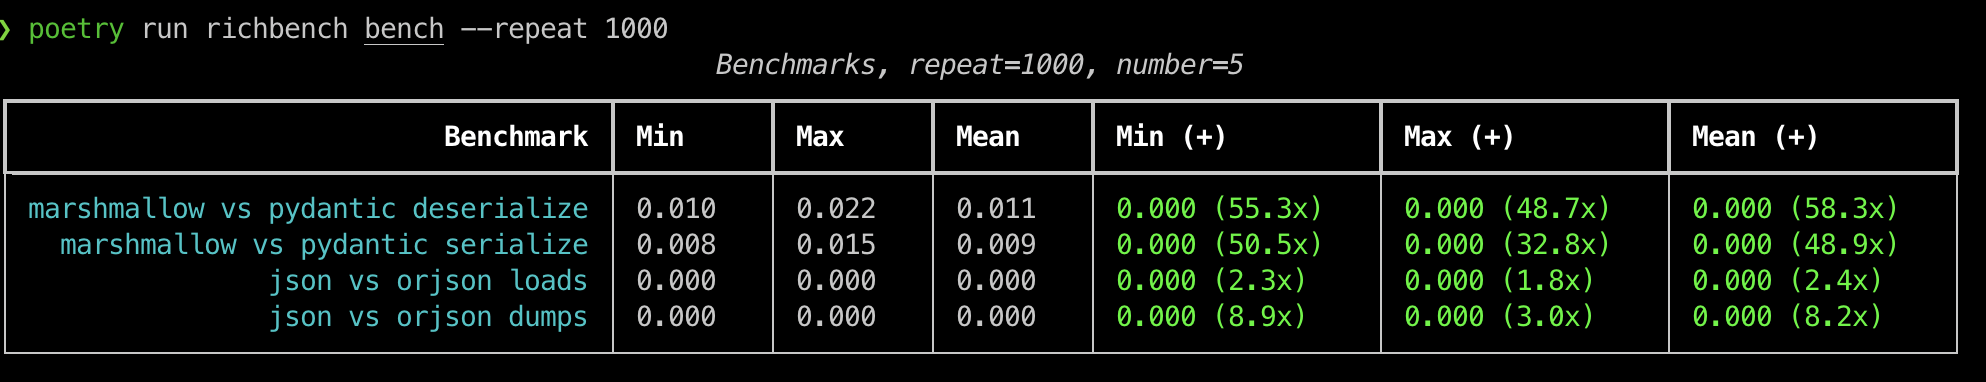
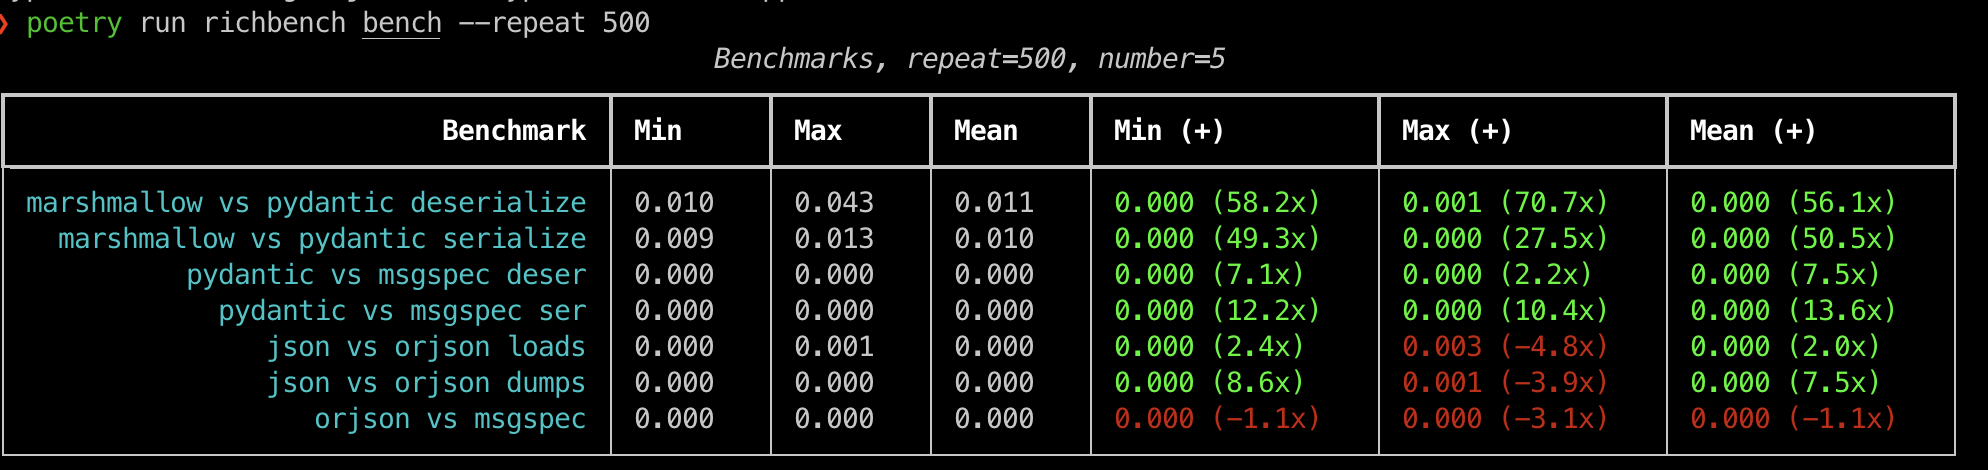
improve

Changed region(s): [[0.0, 0.0288, 0.999, 0.9791]]

diff --git a/bench/memory_msgspec.py b/bench/memory_msgspec.py
@@ -1,7 +1,6 @@
-import json, sys
+import json
 from uuid import UUID, uuid4
 
-from dataclasses import dataclass, field
 from enum import Enum
 
 import tracemalloc
@@ -33,44 +32,43 @@ def main():
 
     BASIC_USER_STRING = json.dumps(BASIC_USER)
 
-    ##############
-    # Marshmallow
-    ##############
+    ##########
+    # msgspec
+    ##########
+    import msgspec
 
-    @dataclass
-    class Info:
+    class InfoMsgspec(msgspec.Struct):
         tag: str
 
-    @dataclass
-    class OrgMarsh:
+    class OrgMsgspec(msgspec.Struct):
         id: str
-        status: Status =  field(
-            metadata={"by_value": True}
-        )
-        info: Info
+        status: Status
+        info: InfoMsgspec
         super_id: UUID
 
-    @dataclass
-    class BasicUserMarsh:
+    class BasicUserMqgspec(msgspec.Struct):
         email: str
         id: int
-        is_admin: bool = field(metadata={"data_key": "isAdmin"})
-        orgs: list[OrgMarsh]
+        is_admin: bool = msgspec.field(name="isAdmin")
+        orgs: list[OrgMsgspec]
         ids: list[int]
         names: list[str]
 
-    MARSH_ORG = OrgMarsh(
+
+    MSGSPEC_ORG = OrgMsgspec(
         id="2002",
         status=Status.LIVE,
-        info=Info(tag="tag"),
+        info=InfoMsgspec(
+            tag= "tag"
+        ),
         super_id=uuid4()
     )
         
-    MARSHMALLOW_USER = BasicUserMarsh(
+    MSGSPEC_USER = BasicUserMqgspec(
         email = "test@test.com",
         id = 100,
         is_admin = True,
-        orgs=[MARSH_ORG] * N_ELEM_ARRAY,
+        orgs=[MSGSPEC_ORG] * N_ELEM_ARRAY,
         ids=[i for i in range(N_ELEM_ARRAY)],
         names=[f"n_{i}" for i in range(N_ELEM_ARRAY)]
     )
@@ -79,8 +77,7 @@ def main():
     total_bytes = sum(stat.size for stat in snapshot.statistics('lineno'))
     # convert to kb
     total_kb = total_bytes / 1024.0
-    print(f"Marhsh cosumes {total_kb} kb")
-
+    print(f"Msgspec cosumes {total_kb} kb")
 
 if __name__ == "__main__":
     main()

diff --git a/bench/bench_all.py b/bench/bench_all.py
@@ -114,6 +114,49 @@ def deserialize_with_pyandtic_standard():
 def serialize_with_pyandtic_standard():
     return PYDANTIC_USER.model_dump_json()
 
+##########
+# msgspec
+##########
+import msgspec
+
+class InfoMsgspec(msgspec.Struct):
+    tag: str
+
+class OrgMsgspec(msgspec.Struct):
+    id: str
+    status: Status
+    info: InfoMsgspec
+    super_id: UUID
+
+class BasicUserMqgspec(msgspec.Struct):
+    email: str
+    id: int
+    is_admin: bool = msgspec.field(name="isAdmin")
+    orgs: list[OrgMsgspec]
+
+
+MSGSPEC_ORG = OrgMsgspec(
+    id="2002",
+    status=Status.LIVE,
+    info=InfoMsgspec(
+        tag= "tag"
+    ),
+    super_id=uuid4()
+)
+    
+MSGSPEC_USER = BasicUserMqgspec(
+    email = "test@test.com",
+    id = 100,
+    is_admin = True,
+    orgs=[MSGSPEC_ORG] * 10
+)
+
+def deserialize_with_msg_spec():
+    return msgspec.json.decode(BASIC_USER_STRING, type=BasicUserMqgspec)
+
+def serialize_with_msg_spec():
+    return msgspec.json.encode(MSGSPEC_USER)
+
 ###
 # json
 ##
@@ -132,8 +175,8 @@ def dump_json_orjson():
 __benchmarks__ = [
     (deserialize_with_marshmallow, deserialize_with_pyandtic_standard, "marshmallow vs pydantic deserialize"),
     (serialize_with_marshmallow, serialize_with_pyandtic_standard, "marshmallow vs pydantic serialize"),
-    (deserialize_with_marshmallow, deserialize_with_pyandtic_dataclass_type_adapter,  "marshmallow vs pydantic type adapter deserialize"),
-    (serialize_with_marshmallow, serialize_with_pyandtic_dataclass_type_adapter, "marshmallow vs pydantic type adapter serialize"),
+    (deserialize_with_pyandtic_standard, deserialize_with_msg_spec, "pydantic vs msgspec deser"),
+    (serialize_with_pyandtic_standard, serialize_with_msg_spec, "pydantic vs msgspec ser"),
     (load_json_standard, load_json_orjson, "json vs orjson loads"),
-    (dump_json_standard, dump_json_orjson, "json vs orjson dumps")
+    (dump_json_standard, dump_json_orjson, "json vs orjson dumps"),
 ]

diff --git a/bench/memory_pydantic.py b/bench/memory_pydantic.py
@@ -8,6 +8,7 @@ from pydantic import BaseModel, Field
 
 import tracemalloc
 
+N_ELEM_ARRAY = 50
 
 def main():
     tracemalloc.start()
@@ -27,7 +28,9 @@ def main():
         "email": "test@test.com",
         "id": 100,
         "isAdmin": True,
-        "orgs": [BASIC_ORG] * 10
+        "orgs": [BASIC_ORG] * N_ELEM_ARRAY,
+        "ids": [i for i in range(N_ELEM_ARRAY)],
+        "names": [f"n_{i}" for i in range(N_ELEM_ARRAY)]
     }
 
     BASIC_USER_STRING = json.dumps(BASIC_USER)
@@ -62,15 +65,14 @@ def main():
         ),
         super_id=uuid4()
     )
-
         
     PYDANTIC_USER = BasicUserPydantic(
         email = "test@test.com",
         id = 100,
         isAdmin = True,
-        orgs=[PYDANTIC_ORG] * 50,
-        ids=[i for i in range(50)],
-        names=[f"n_{i}" for i in range(30)]
+        orgs=[PYDANTIC_ORG] * N_ELEM_ARRAY,
+        ids=[i for i in range(N_ELEM_ARRAY)],
+        names=[f"n_{i}" for i in range(N_ELEM_ARRAY)]
     )
     snapshot = tracemalloc.take_snapshot()
     total_bytes = sum(stat.size for stat in snapshot.statistics('lineno'))
